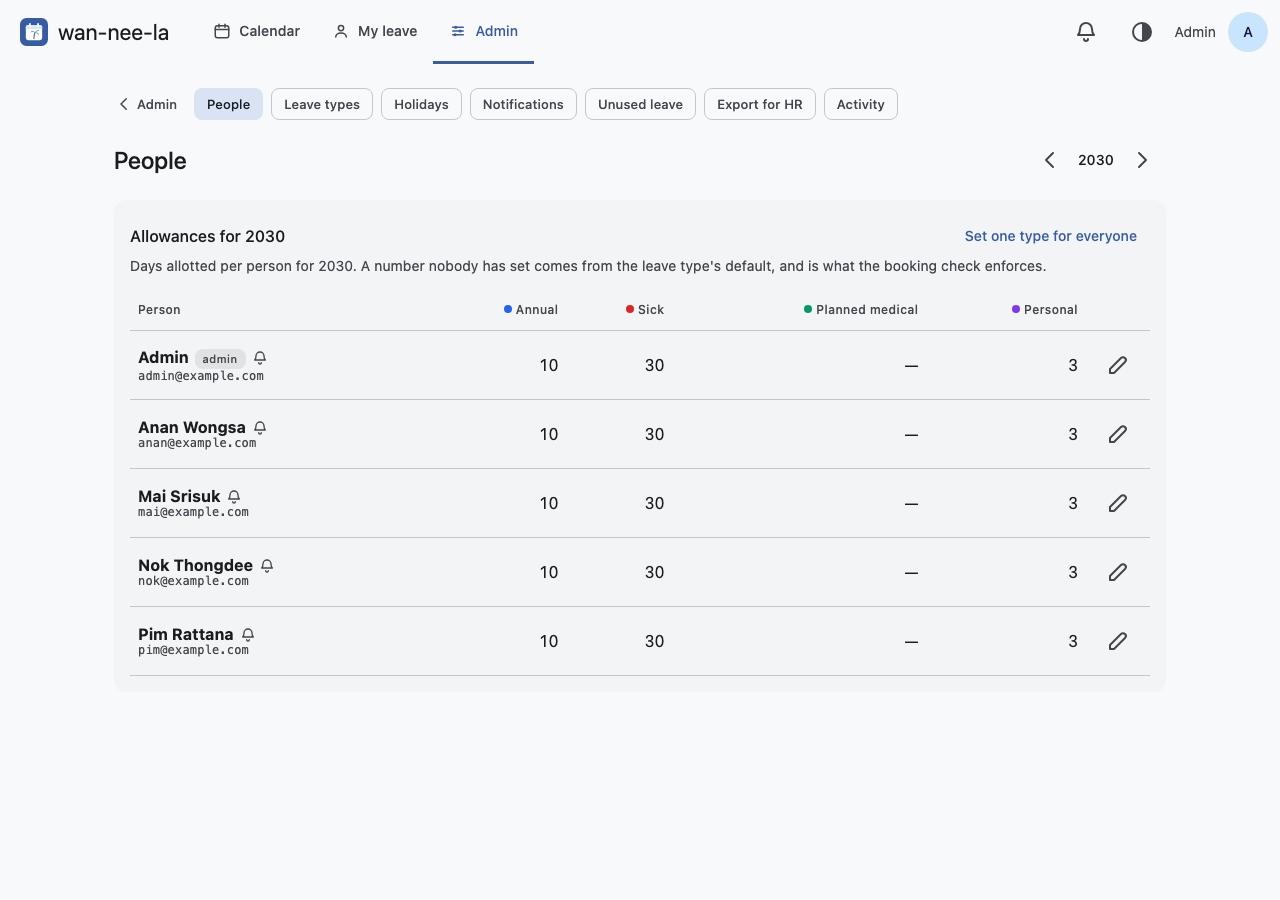
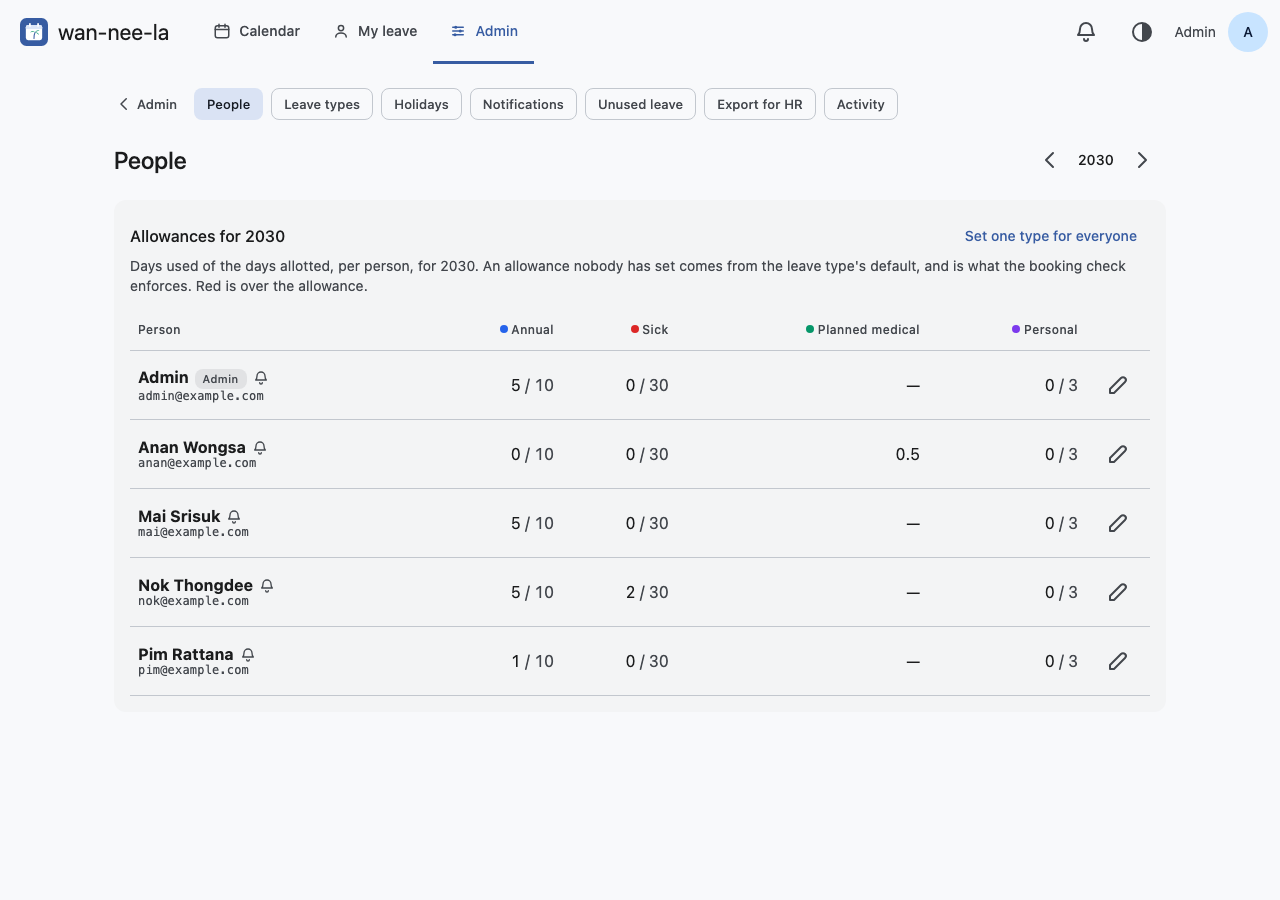
feat: People shows used / allowance; person page lists others' changes
- E10: each cell on /admin/people is days used of days allotted
  ("4.5 / 10"), from usedByTypeForYear, red and said in words when over;
  a type with no allowance shows only what was taken.
- B29: a person's admin page lists the latest ten changes anyone else
  made to their leave (auditByOthers, on the 0012 subject index), as
  Activity renders them, with a link to Activity filtered to them.
- npm audit fix: Wrangler 4.153.0, clearing an undici advisory in its
  local server that arrived with the 4.152 bump.

Linux People screenshots removed for CI to re-record.

diff --git a/src/views/admin/people.tsx b/src/views/admin/people.tsx
@@ -1,6 +1,8 @@
 import { formatDays } from '../../domain/dates.ts';
 import { allottedFor } from '../../domain/leave.ts';
 import type { LeaveType, Quota, User } from '../../types.ts';
+import type { AuditRow } from '../../repo/db.ts';
+import { AuditItem } from './activity.tsx';
 import { YearNav } from '../layout.tsx';
 import { SelectField, TextField } from '../fields.tsx';
 import { FormActions } from '../parts.tsx';
@@ -17,6 +19,8 @@ export interface PeopleProps {
 	users: User[];
 	types: LeaveType[];
 	quotas: Quota[];
+	/** Days taken per person per type in `year`, confirmed bookings only. */
+	used: Map<string, Map<number, number>>;
 	pushCounts: Map<string, number> | null;
 	error?: string;
 	notice?: string;
@@ -44,7 +48,7 @@ export function AdminPeoplePage(props: PeopleProps) {
 	);
 }
 
-function PeopleBody({ year, users, types, quotas, pushCounts }: PeopleProps) {
+function PeopleBody({ year, users, types, quotas, used, pushCounts }: PeopleProps) {
 	const t = useT();
 	const lang = useLang();
 	// Only types that can still be booked: a retired type's rows stay in the
@@ -106,7 +110,7 @@ function PeopleBody({ year, users, types, quotas, pushCounts }: PeopleProps) {
 										<span class="muted mono person-email">{u.email}</span>
 									</td>
 									{offered.map((type) => (
-										<td class="num">{type.counts_quota ? formatDays(quotaFor(u.email, type)) : '—'}</td>
+										<UsedCell used={used.get(u.email)?.get(type.id) ?? 0} allotted={type.counts_quota ? quotaFor(u.email, type) : null} />
 									))}
 									<td class="row-action">
 										<a href={edit} class="icon-btn" aria-label={t('admin.editPerson', { name: u.display_name })}>
@@ -123,6 +127,44 @@ function PeopleBody({ year, users, types, quotas, pushCounts }: PeopleProps) {
 	);
 }
 
+/**
+ * "4.5 / 10": days used of the days allotted, so who is over or has most left
+ * reads off the roster without opening anyone. Over the allowance is in the
+ * error colour, and says so in words for a screen reader. A type with no
+ * allowance shows only what was taken, or a dash for none.
+ */
+function UsedCell({ used, allotted }: { used: number; allotted: number | null }) {
+	const t = useT();
+	if (allotted === null) {
+		return (
+			<td class="num">
+				{used > 0 ? (
+					<>
+						<span aria-hidden="true">{formatDays(used)}</span>
+						<span class="visually-hidden">{t('admin.usedOnly', { used: formatDays(used) })}</span>
+					</>
+				) : (
+					'—'
+				)}
+			</td>
+		);
+	}
+	const over = used > allotted;
+	return (
+		<td class={`num ${over ? 'over' : ''}`}>
+			<span aria-hidden="true">
+				{formatDays(used)}
+				<span class="of"> / {formatDays(allotted)}</span>
+			</span>
+			<span class="visually-hidden">
+				{over
+					? t('admin.usedOver', { used: formatDays(used), allotted: formatDays(allotted), over: formatDays(used - allotted) })
+					: t('admin.usedOf', { used: formatDays(used), allotted: formatDays(allotted) })}
+			</span>
+		</td>
+	);
+}
+
 export interface PersonProps {
 	user: User;
 	version?: string;
@@ -133,6 +175,10 @@ export interface PersonProps {
 	types: LeaveType[];
 	quotas: Quota[];
 	pushCount: number | null;
+	/** The latest changes someone else made to this person's leave. */
+	byOthers: AuditRow[];
+	/** Names for the trail's actors. */
+	users: User[];
 	error?: string;
 	notice?: string;
 }
@@ -152,6 +198,7 @@ export function AdminPersonPage(props: PersonProps) {
 			headExtra={<YearNav basePath={base} year={year} minYear={minYear} maxYear={maxYear} />}
 		>
 			<PersonBody {...props} />
+			<ChangedByOthers subject={props.subject} rows={props.byOthers} users={props.users} />
 		</AdminShell>
 	);
 }
@@ -205,3 +252,35 @@ function PersonBody({ subject, year, types, quotas, pushCount }: PersonProps) {
 		</section>
 	);
 }
+
+/**
+ * What other people — admins, in practice — did to this person's leave: booked
+ * it for them, moved it, removed it. The same lines as Activity, filtered to
+ * the ones the person did not make themselves, because those are the ones
+ * that come up when someone asks "who changed my leave?".
+ */
+export function ChangedByOthers({ subject, rows, users }: { subject: User; rows: AuditRow[]; users: User[] }) {
+	const t = useT();
+	const names = new Map(users.map((u) => [u.email, u.display_name]));
+	return (
+		<section class="card">
+			<h2>{t('admin.othersChanged', { name: subject.display_name })}</h2>
+			{rows.length === 0 ? (
+				<p class="muted">{t('admin.othersNone')}</p>
+			) : (
+				<>
+					<p class="muted">{t('admin.othersChangedHelp', { n: OTHERS_SHOWN })}</p>
+					<ul class="leave-list">
+						{rows.map((row) => (
+							<AuditItem row={row} names={names} />
+						))}
+					</ul>
+				</>
+			)}
+			<a class="btn text" href={`/admin/activity?audit_who=${encodeURIComponent(subject.email)}`}>{t('admin.othersAll')}</a>
+		</section>
+	);
+}
+
+/** How many of those the person page lists; Activity has the rest. */
+export const OTHERS_SHOWN = 10;

diff --git a/src/i18n/strings.ts b/src/i18n/strings.ts
@@ -284,7 +284,14 @@ export const STRINGS = {
 	'admin.tileExport': { en: 'A CSV for any range up to a year', th: 'ไฟล์ CSV ช่วงใดก็ได้ไม่เกินหนึ่งปี' },
 	'admin.tileActivity': { en: '{n} change|{n} changes', th: '{n} รายการ' },
 	'admin.allowances': { en: 'Allowances for {year}', th: 'วันลาปี {year}' },
-	'admin.peopleHelp': { en: "Days allotted per person for {year}. A number nobody has set comes from the leave type's default, and is what the booking check enforces.", th: 'จำนวนวันลาของแต่ละคนในปี {year} ค่าที่ยังไม่มีใครตั้งมาจากค่าเริ่มต้นของประเภทการลา และเป็นค่าที่ระบบใช้ตรวจตอนลา' },
+	'admin.peopleHelp': { en: "Days used of the days allotted, per person, for {year}. An allowance nobody has set comes from the leave type's default, and is what the booking check enforces. Red is over the allowance.", th: 'จำนวนวันที่ใช้ไปจากวันลาที่ได้รับของแต่ละคนในปี {year} ค่าที่ยังไม่มีใครตั้งมาจากค่าเริ่มต้นของประเภทการลา และเป็นค่าที่ระบบใช้ตรวจตอนลา สีแดงคือเกินสิทธิ์' },
+	'admin.usedOf': { en: '{used} of {allotted} days used', th: 'ใช้ไป {used} จาก {allotted} วัน' },
+	'admin.usedOver': { en: '{used} of {allotted} days used, {over} over', th: 'ใช้ไป {used} จาก {allotted} วัน เกินสิทธิ์ {over} วัน' },
+	'admin.usedOnly': { en: '{used} days taken, no allowance', th: 'ลาไป {used} วัน ไม่มีโควตา' },
+	'admin.othersChanged': { en: "Changes others made to {name}'s leave", th: 'การเปลี่ยนแปลงที่ผู้อื่นทำกับการลาของ {name}' },
+	'admin.othersChangedHelp': { en: 'Bookings an admin made, moved or removed for them — the latest {n}. Their own changes are not listed.', th: 'การลาที่ผู้ดูแลระบบสร้าง ย้าย หรือยกเลิกแทน — ล่าสุด {n} รายการ ไม่รวมที่เจ้าตัวแก้ไขเอง' },
+	'admin.othersNone': { en: 'Nobody else has changed their leave.', th: 'ยังไม่มีผู้อื่นแก้ไขการลาของคนนี้' },
+	'admin.othersAll': { en: 'Everything around them in Activity', th: 'ดูทั้งหมดในประวัติการเปลี่ยนแปลง' },
 	'admin.setOneType': { en: 'Set one type for everyone', th: 'ตั้งค่าประเภทเดียวให้ทุกคน' },
 	'admin.edit': { en: 'Edit', th: 'แก้ไข' },
 	'admin.editPerson': { en: 'Edit {name}', th: 'แก้ไข {name}' },

diff --git a/src/routes/admin.tsx b/src/routes/admin.tsx
@@ -7,7 +7,7 @@ import { daysWithin, leaveSummary, toCsv } from '../domain/report.ts';
 import { parseLeaveTypeForm } from '../domain/leaveTypes.ts';
 import { toLang } from '../i18n/strings.ts';
 import * as db from '../repo/db.ts';
-import { AdminActivityPage, AdminExportPage, AdminHolidaysPage, AdminNotificationsPage, AdminOverviewPage, AdminPeoplePage, AdminPersonPage, AdminTypesPage, AdminYearEndPage, HolidayPreviewPage } from '../views/admin/index.ts';
+import { AdminActivityPage, AdminExportPage, AdminHolidaysPage, AdminNotificationsPage, AdminOverviewPage, AdminPeoplePage, AdminPersonPage, AdminTypesPage, OTHERS_SHOWN, AdminYearEndPage, HolidayPreviewPage } from '../views/admin/index.ts';
 import { lineConfigured, lineEnabled, pushConfigured, resolveGroupId, runDigest, runWeekAhead } from '../notify/digest.ts';
 import { runYearEnd, yearEndKey, yearEndReport } from '../notify/yearend.ts';
 import { type Ctx, userOf, say, sayMessage, leaveTypesOf, holidayReminder, clampInt, yearNavBounds, errorPage, page, validDateOr, isEmail, type AppEnv } from '../server/common.tsx';
@@ -155,15 +155,16 @@ app.post('/admin/year-end/remind', async (c) => {
 
 app.get('/admin/people', async (c) => {
 	const { year, minYear, maxYear } = adminYear(c);
-	const [users, types, quotas, pushCounts] = await Promise.all([
+	const [users, types, quotas, used, pushCounts] = await Promise.all([
 		db.listUsers(c.env.DB),
 		leaveTypesOf(c),
 		db.listQuotasForYear(c.env.DB, year),
+		db.usedByTypeForYear(c.env.DB, year),
 		pushConfigured(c.env) ? db.subscriptionCounts(c.env.DB) : Promise.resolve(null),
 	]);
 	return page(
 		c,
-		<AdminPeoplePage {...adminCommon(c)} year={year} minYear={minYear} maxYear={maxYear} users={users} types={types} quotas={quotas} pushCounts={pushCounts} />,
+		<AdminPeoplePage {...adminCommon(c)} year={year} minYear={minYear} maxYear={maxYear} users={users} types={types} quotas={quotas} used={used} pushCounts={pushCounts} />,
 	);
 });
 
@@ -172,10 +173,12 @@ app.get('/admin/people/:email', async (c) => {
 	const { year, minYear, maxYear } = adminYear(c);
 	const subject = isEmail(email) ? await db.getUser(c.env.DB, email) : null;
 	if (!subject) return redirectWithFlash(`/admin/people?y=${year}`, 'err', say(c, 'flash.unknownPerson'));
-	const [types, quotas, subs] = await Promise.all([
+	const [types, quotas, subs, byOthers, users] = await Promise.all([
 		leaveTypesOf(c),
 		db.listQuotas(c.env.DB, subject.email, year),
 		pushConfigured(c.env) ? db.subscriptionsFor(c.env.DB, subject.email) : Promise.resolve(null),
+		db.auditByOthers(c.env.DB, subject.email, OTHERS_SHOWN),
+		db.listUsers(c.env.DB),
 	]);
 	return page(
 		c,
@@ -188,6 +191,8 @@ app.get('/admin/people/:email', async (c) => {
 			types={types}
 			quotas={quotas}
 			pushCount={subs ? subs.length : null}
+			byOthers={byOthers}
+			users={users}
 		/>,
 	);
 });

diff --git a/src/repo/db.ts b/src/repo/db.ts
@@ -695,6 +695,19 @@ export async function changedByOthers(db: D1Database, email: string): Promise<Ma
 	return new Map((res.results ?? []).map((r) => [r.leave_id, { name: r.name, action: r.action }]));
 }
 
+/**
+ * The latest changes made to someone's leave by anyone but them, newest first:
+ * the admin person page's "Changes others made". Served by the subject index
+ * (migration 0012).
+ */
+export async function auditByOthers(db: D1Database, email: string, limit: number): Promise<AuditRow[]> {
+	const res = await db
+		.prepare('SELECT * FROM leave_audit WHERE subject_email = ?1 AND actor_email <> ?1 ORDER BY id DESC LIMIT ?2')
+		.bind(email, limit)
+		.all<AuditRow>();
+	return res.results ?? [];
+}
+
 export async function auditForLeave(db: D1Database, leaveId: string): Promise<AuditRow[]> {
 	const res = await db.prepare('SELECT * FROM leave_audit WHERE leave_id = ? ORDER BY id DESC LIMIT 50').bind(leaveId).all<AuditRow>();
 	return res.results ?? [];

diff --git a/public/app.css b/public/app.css
@@ -1919,6 +1919,9 @@ form.inline:has(.tf-support) { margin-bottom: 28px; }
 .people-table td { vertical-align: middle; padding-top: 10px; padding-bottom: 10px; }
 .people-table th.num, .people-table td.num { text-align: right; font-variant-numeric: tabular-nums; }
 .people-table td.num { white-space: nowrap; }
+/* "4.5 / 10": the allowance quieter than what is used; over it, the error colour. */
+.people-table td.num .of { color: var(--md-on-surface-variant); }
+.people-table td.num.over, .people-table td.num.over .of { color: var(--md-error); font-weight: 500; }
 .people-table th .dot { width: 8px; height: 8px; vertical-align: 1px; }
 .people-table .tag { margin-left: 6px; height: 20px; }
 .people-table .push-state { margin-left: 6px; vertical-align: -3px; }

diff --git a/src/views/admin/index.ts b/src/views/admin/index.ts
@@ -5,7 +5,7 @@
 export { type AdminSection } from './shell.tsx';
 export { AdminOverviewPage, type OverviewProps } from './overview.tsx';
 export { AdminYearEndPage, type YearEndProps } from './yearend.tsx';
-export { AdminPeoplePage, AdminPersonPage, type PeopleProps, type PersonProps } from './people.tsx';
+export { AdminPeoplePage, AdminPersonPage, OTHERS_SHOWN, type PeopleProps, type PersonProps } from './people.tsx';
 export { AdminTypesPage, type TypesProps } from './types.tsx';
 export { AdminHolidaysPage, type HolidaysProps } from './holidays.tsx';
 export { AdminNotificationsPage, type NotificationsProps } from './notifications.tsx';

diff --git a/docs/PROGRESS.md b/docs/PROGRESS.md
@@ -1,6 +1,6 @@
 # wan-nee-la — Progress
 
-Updated: 2026-10-23
+Updated: 2026-10-27
 
 > This repo is **public**. Every account id, hostname, database id and Access
 > value below is a placeholder; the real ones live in `wrangler.local.jsonc`,
@@ -8,7 +8,7 @@ Updated: 2026-10-23
 
 ## Status
 
-Deployed and serving. Version `f8f434ab-3f83-4952-9e23-fe364bd0e93b`, deployed 2026-10-23 with `npm run ship`, D1 `<database-id>` in APAC, behind Cloudflare Access on `<hostname>`. Production checks passed: the new version serves all traffic, `/health` and `/` both 302 to Access, production D1 answers, all twelve migrations are applied, and `shield:probe` stops all 17 violating requests at the edge.
+Deployed and serving. Version `2113104c-bba6-4f81-9cd3-99e49efd4b9f`, deployed 2026-10-27 with `npm run ship`, D1 `<database-id>` in APAC, behind Cloudflare Access on `<hostname>`. Production checks passed: the new version serves all traffic, `/health` and `/` both 302 to Access, production D1 answers, all twelve migrations are applied, and `shield:probe` stops all 17 violating requests at the edge.
 
 **In real use.** Twelve active users, 24 confirmed bookings, 26 holidays, four leave types, 49 rows in the audit trail (read 2026-10-20). That changes what matters here: the shared surfaces now have a real audience, so note visibility, the audit trail and the privacy rules on `/u/:email` are load-bearing rather than theoretical.
 
@@ -151,7 +151,7 @@ Two consequences worth remembering:
 
 ## Verification
 
-**1,137 automated assertions**, all green. CI runs them, and lint, on every push and pull request.
+**1,144 automated assertions**, all green. CI runs them, and lint, on every push and pull request.
 
 | Suite | Assertions | Covers |
 | --- | --- | --- |
@@ -164,7 +164,7 @@ Two consequences worth remembering:
 | `test-auth.mjs` | 15 | The development bypass: honoured for a loopback caller only, refused for any other |
 | `test-migrate.mjs` | 29 | Migration tracking: the generated SQL on SQLite, then `migrate.mjs` itself through wrangler — applied twice, a legacy database refused and then baselined |
 | `test-i18n.mjs` | 27 | Lookup, placeholders, plurals, and the catalogue's own health |
-| `smoke.mjs` | 526 | The HTTP layer — see below |
+| `smoke.mjs` | 533 | The HTTP layer — see below |
 | `test-browser.mjs` | 84 | Nine screenshots compared with per-platform references (the month on a phone, light, dark and in Thai, and a laptop; the booking dialog, My leave and a booking's page on a laptop; the admin People page on both), and axe-core's WCAG 2.1 A/AA rules on nine pages, failing on anything serious — then the calendar's own script in headless Chrome: the phone's day card, tapping and swiping it, what a screen reader is told, the folding Book button, the days-off-by-month chart, the busy-day count, the card staying on screen under both banners, the month swipe, the notification invitation, the entry popup, drag-to-move, remove and undo, booking from an empty day and the button held when the allowance cannot cover it, the narrower weekend columns with the bars still on their days, the phone's folded Upcoming and its colour key, the phone's Today card, dragging across days to book them, the Thai interface |
 | `check-openapi.mjs` | — | Each of the 43 routes is either documented in `openapi.yaml` or deliberately listed as not, and the API Shield 3.0.3 copy still builds from it, and its validation fingerprint moves only when validation does |
 
@@ -184,7 +184,7 @@ It is built against its own worst failure mode — passing while testing nothing
 
 ## Open items
 
-**No known bugs.** The push keypair mismatch (#40) was repaired on 2026-09-21. 1,137 assertions are green and `npm audit` is clean. The 2026-08-25 audit and the 2026-09-13 review both found and fixed what they turned up — the second a quota overdraw when moving a booking across New Year (#36) — and each fix is covered by a test or, where a test could not reach it, recorded in [ISSUES.md](ISSUES.md).
+**No known bugs.** The push keypair mismatch (#40) was repaired on 2026-09-21. 1,144 assertions are green and `npm audit` is clean. The 2026-08-25 audit and the 2026-09-13 review both found and fixed what they turned up — the second a quota overdraw when moving a booking across New Year (#36) — and each fix is covered by a test or, where a test could not reach it, recorded in [ISSUES.md](ISSUES.md).
 
 What follows is decisions, unfinished configuration, accepted trade-offs and debt — not defects.
 
@@ -265,6 +265,8 @@ Features — iCal, team grouping, coverage scoped to a team — are in PLAN.md s
 - The daily digest runs at 09:00, Mon–Fri, and stays silent on days nobody is away. Its push title is Thai only and names people rather than counting them — a lock screen gives it one line, and the names are the message.
 
 ## Change log
+
+- **2026-10-27** — Admin People shows each person's days used against their allowance ("4.5 / 10"), red when over, so who is overdrawn or has most left reads off the roster. A person's admin page lists the latest changes others made to their leave — booked for them, moved, removed — with a link to the rest in Activity. Dependabot's first two pull requests merged: Wrangler 4.152 and the workflow's `upload-artifact` v7 and SonarQube action 8.3; `npm audit` then found an undici advisory in Wrangler's local server, cleared in range by Wrangler 4.153.
 
 - **2026-10-23** — Accessibility checked by machine: axe-core runs the WCAG 2.1 A and AA rules on the month (phone, dark, laptop, Thai), the booking dialog, My leave, a booking's page and two admin pages, and fails the build on anything it rates serious. Its first run found, and this fixed: weekday headings for Saturday and Sunday, and the numbers of days outside the month or already gone, faded below 4.5:1 (they keep full ink now; the ground and dots still fade); links whose spoken name did not contain the text on screen — the day card's date, its rows, the bars, Upcoming, "+N more" and My leave's rows — which speech-input users say aloud to press (WCAG 2.5.3); and the logo link on a phone, which had no name at all. Three more screenshots are compared: the booking dialog, My leave and a booking's page. Found on the way, because today is Chulalongkorn Day: a bar for leave still running was faded as finished when a holiday today cut it short, and the Today card said "Not a working day" over someone booked for it.
 

diff --git a/docs/ARCHITECTURE.md b/docs/ARCHITECTURE.md
@@ -184,8 +184,8 @@ Self-serve model (owner's decision): a POST creates a `confirmed` row directly. 
 | POST | `/api/v1/push/subscribe` · `/api/v1/push/unsubscribe` | This browser's subscription. Unsubscribe is scoped to its owner. |
 | POST | `/api/v1/push/test` | Push to the caller's own browsers. |
 | GET | `/admin` | Overview, admin only like everything under it: the holiday reminder, four figures (away today, people with notifications on, the last 09:00 digest, changes in seven days) and a tile per section. An old `/admin?audit_…` link is sent on to `/admin/activity`. |
-| GET | `/admin/people?y=` | The roster for a year, read-only: one row per person, one column per offered type, through `allottedFor` so an unset year shows what the booking check enforces. The bell is a count of browsers, never an endpoint. |
-| GET · POST | `/admin/people/:email?y=` | One person's role, status and every allowance, in one form with one Save. Every allowance is validated before anything is written; the last-admin guard refuses the whole save. Replaced `POST /admin/user` and `POST /admin/quotas`, whose two Save buttons per person each discarded what was typed in the other. |
+| GET | `/admin/people?y=` | The roster for a year, read-only: one row per person, one column per offered type, each cell days used of days allotted ("4.5 / 10", `usedByTypeForYear` — charged to the year a booking starts, as the balance is), over the allowance in the error colour and in words for a screen reader; the allowance through `allottedFor`, so an unset year shows what the booking check enforces. The bell is a count of browsers, never an endpoint. |
+| GET · POST | `/admin/people/:email?y=` | One person's role, status and every allowance, in one form with one Save; under it, the latest ten changes anyone else made to their leave (`auditByOthers`, on the subject index from 0012), as Activity shows them, with a link to Activity filtered to them. Every allowance is validated before anything is written; the last-admin guard refuses the whole save. Replaced `POST /admin/user` and `POST /admin/quotas`, whose two Save buttons per person each discarded what was typed in the other. |
 | GET | `/admin/types` · `/admin/holidays?y=` · `/admin/notifications` · `/admin/export` · `/admin/activity` | One page per section. Types read as a line each, the form behind a `<details>`; holidays a year at a time with weekdays; notifications both channels side by side with the preview and send; the export form; the change history. |
 | GET | `/admin/export.csv` | `from`, `to` (≤ 366 days apart, defaulting to this year) and `kind` = `summary` or `bookings`. Counted by `daysWithin` in `src/domain/report.ts`: a booking crossing the range's edge is cut there and recounted, halves only where the booking's own half falls inside. Deactivated people are included (`listLeaveInRange`'s `includeInactive`); notes are not. CSV with a UTF-8 BOM, for Excel and Thai, every cell quoted, and a leading `= + - @` defused with an apostrophe, since display names are typed by employees. `Cache-Control: private, no-store`. |
 | POST | `/admin/quotas/bulk` | One leave type's allowance for every active user. |
